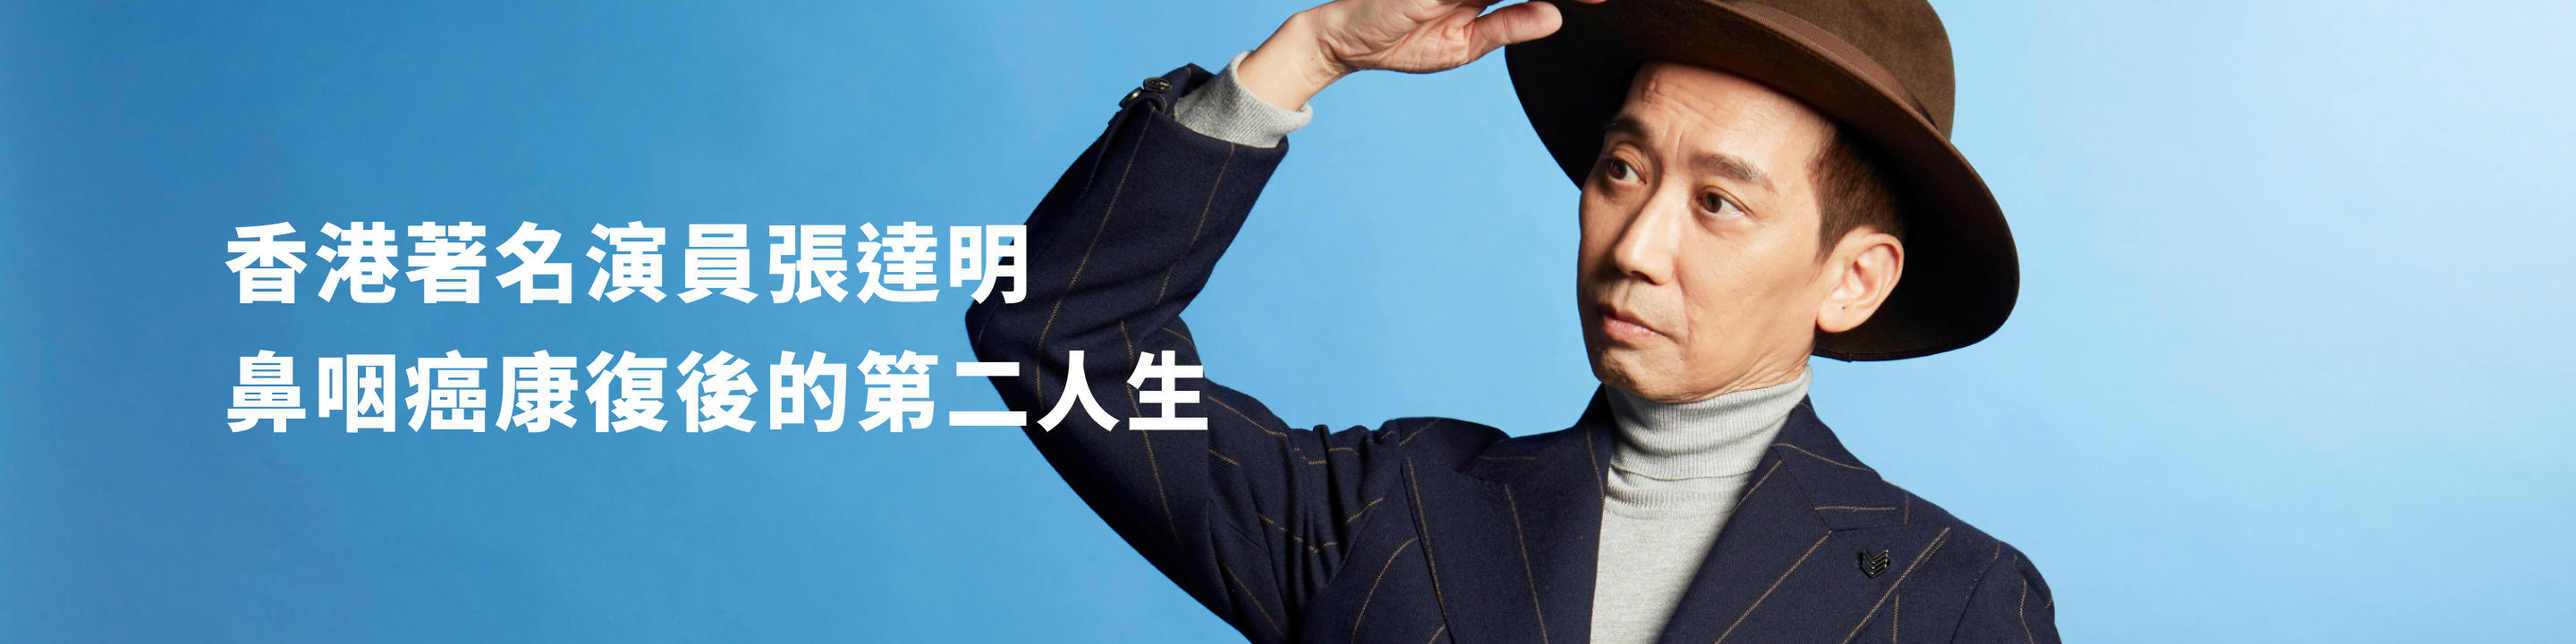
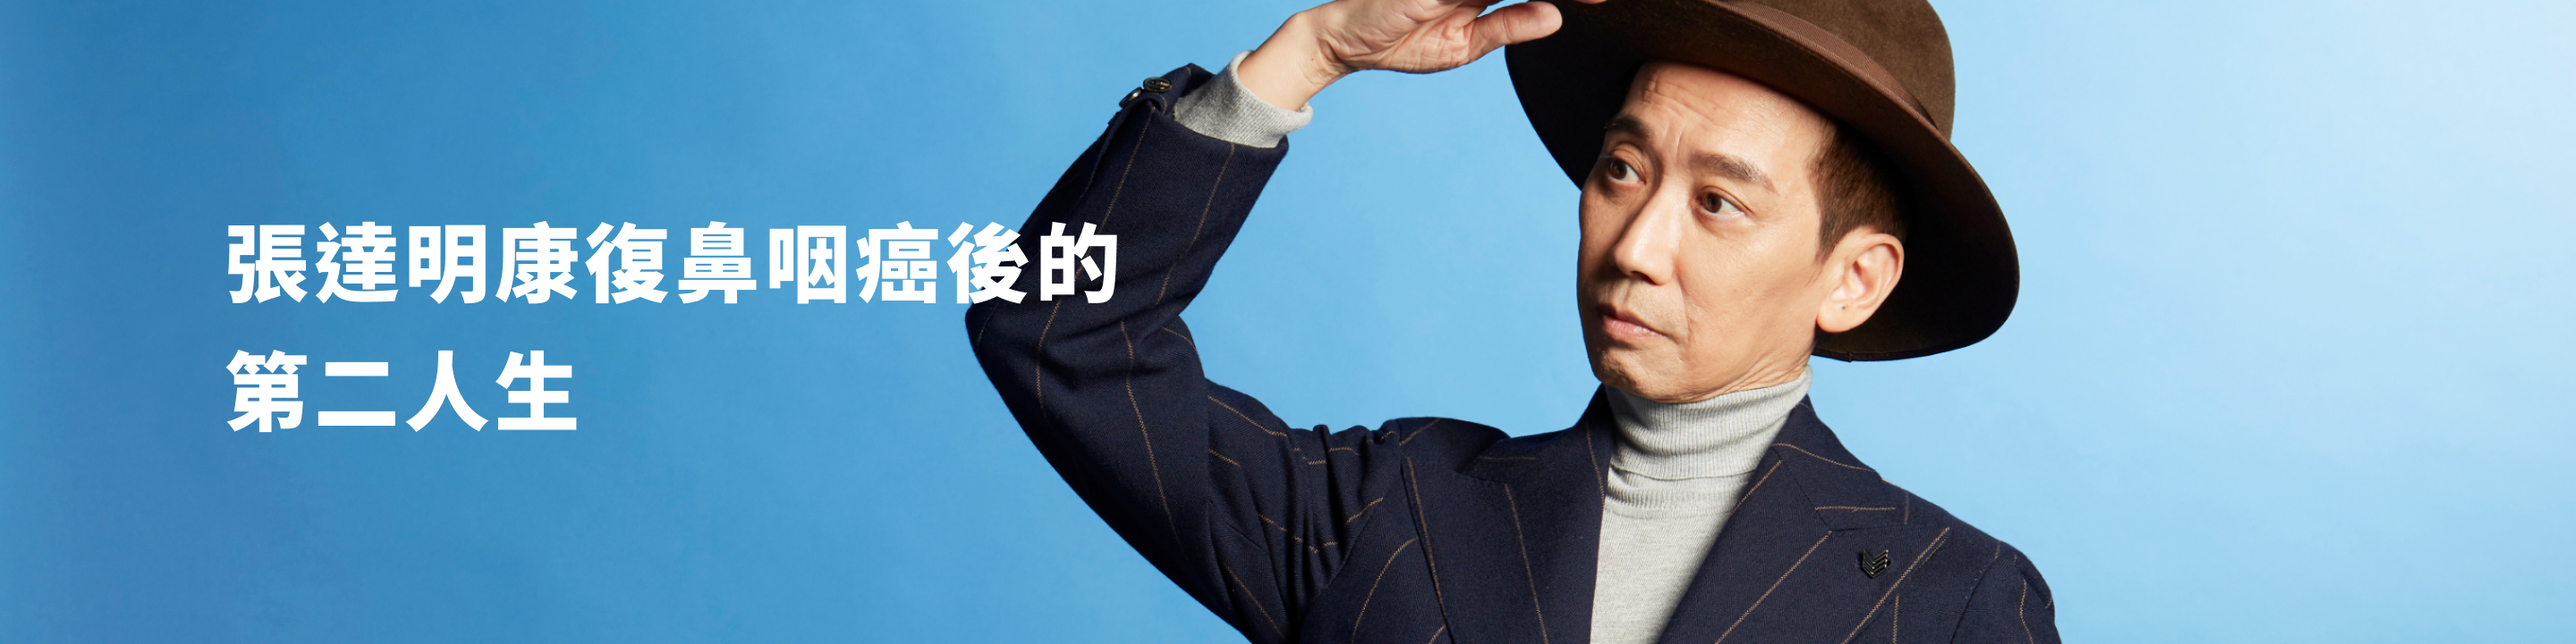
section5 （视频、背景色暂未完成）

Changed region(s): [[0.0938, 0.3361, 0.4375, 0.4889], [0.0625, 0.55, 0.4688, 0.6722]]

diff --git a/src/components/CampaignV2/Components/Sections/SectionFive.js b/src/components/CampaignV2/Components/Sections/SectionFive.js
@@ -1,7 +1,163 @@
-import React from 'react'
+import React, { useState } from "react";
+import {
+  useTheme,
+  useMediaQuery,
+  Box,
+  makeStyles,
+  alpha,
+} from "@material-ui/core/";
+import Typography from "@material-ui/core/Typography";
+import SwiperCore, { Pagination, Navigation } from "swiper/core";
+import "swiper/swiper-bundle.min.css";
+import { StaticImage } from "gatsby-plugin-image";
+import "swiper/components/pagination/pagination.min.css";
+import "swiper/components/navigation/navigation.min.css";
+import { useI18next } from "gatsby-plugin-react-i18next";
+import YouTube from "react-youtube";
+import Button from "@material-ui/core/Button";
+import Grid from "@material-ui/core/Grid";
 
+import LineDots from "../../images/bg_wave_dots.png";
+SwiperCore.use([Pagination, Navigation]);
+
+const useStyles = makeStyles((theme) => ({
+  root: {
+    background:
+      " url(${LineDots}) no-repeat linear-gradient(150.62deg, #1B295D 11.31%, #1C4170 81.99%)",
+    // backgroundSize: "cover",
+  },
+  topContainer: {
+    position: "relative",
+  },
+  text: {
+    position: "absolute",
+    top: "20%",
+    left: "10%",
+    [theme.breakpoints.down("xs")]: {
+      top: "10%",
+      left: "5%",
+    },
+  },
+  textSub: {
+    display: "inline-block",
+    color: "#FFF",
+  },
+  bottomContainer: {},
+
+  introductionTop: {
+    width: theme.spacing(88),
+    lineHeight: 2,
+    textAlign: "center",
+    color: "#Fff",
+  },
+
+  introduction: {
+    width: "100%",
+    display: "flex",
+    alignItems: "center",
+    justifyContent: "center",
+    flexWrap: "wrap",
+    paddingTop: theme.spacing(10),
+    [theme.breakpoints.down("xs")]: {
+      padding: theme.spacing(8, 2),
+    },
+  },
+  introductionBottom: {
+    display: "flex",
+    alignItems: "center",
+    justifyContent: "center",
+    flexWrap: "wrap",
+    fontWeight: "700",
+    paddingBottom: theme.spacing(4),
+    [theme.breakpoints.down("xs")]: {
+      padding: theme.spacing(0, 2),
+      marginBottom: theme.spacing(2),
+    },
+  },
+  btnWrapper: {
+    display: "flex",
+    justifyContent: "center",
+    paddingBottom: theme.spacing(4),
+    [theme.breakpoints.down("xs")]: {
+      flexDirection: "column",
+      alignItems: "center",
+      textAlign: "center",
+    },
+  },
+}));
 const SectionFive = () => {
-  return <div>SectionFive</div>
-}
+  const { t } = useI18next();
+  const theme = useTheme();
+  const matches = useMediaQuery(theme.breakpoints.down("xs"));
+  const classes = useStyles({
+    progressRightWidth: matches ? 80 : 316,
+    matches,
+  });
 
-export default SectionFive
+  const [activeSlide, setActiveSlide] = useState(0);
+  return (
+    <Box className={classes.root}>
+      <Box className={classes.topContainer}>
+        {matches ? (
+          <StaticImage
+            className={classes.img}
+            src="../../images/section_banner_05_mobile.jpg"
+            alt="empty"
+          ></StaticImage>
+        ) : (
+          <StaticImage
+            className={classes.img}
+            src="../../images/section_banner_05.jpg"
+            alt="empty"
+          ></StaticImage>
+        )}
+      </Box>
+      <Box width="100%">
+        <Typography className={classes.introduction}>
+          <Box className={classes.introductionTop}>
+            作為鼻咽癌康復者兼香港著名喜劇演員，張達明先生曾因忽略身體警號而延誤求醫。
+          </Box>
+          <Box className={classes.introductionTop}>
+            走過長達7年的抗癌路，達明終成功擊退鼻咽癌，現在可於電影和舞台劇路上再創輝煌成績。
+          </Box>{" "}
+          <Box className={classes.introductionTop}>
+            一起聽聽達明親述他的第二人生及進行「早期鼻咽癌篩查」的重要！
+          </Box>
+        </Typography>
+      </Box>
+      <Box mt={matches ? 3 : 8} width="100%" height="200px">
+        <YouTube
+          videoId="BACVA3es0NI"
+          opts={{
+            height: "390px",
+            width: "640px",
+          }}
+        />
+      </Box>
+      <Box width="100%">
+        <Typography className={classes.introductionBottom}>
+          <Box className={classes.introductionTop}>
+            不要讓鼻咽癌打亂你的人生，想掌握健康，就要定期接受早期鼻咽癌篩查，
+          </Box>
+          <Box className={classes.introductionTop}>「預早知 ・ 越早醫」。</Box>
+        </Typography>
+      </Box>
+      <Grid className={classes.btnWrapper} container spacing={2}>
+        <Grid item className={classes.item}>
+          <Button
+            variant="contained"
+            color="secondary"
+            href={process.env.GATSBY_SITE_URL}
+            target="_blank"
+            fullWidth={matches}
+            className={classes.btn}
+          >
+            立即預約
+          </Button>
+        </Grid>
+      </Grid>
+    </Box>
+  );
+};
+
+export default SectionFive;
